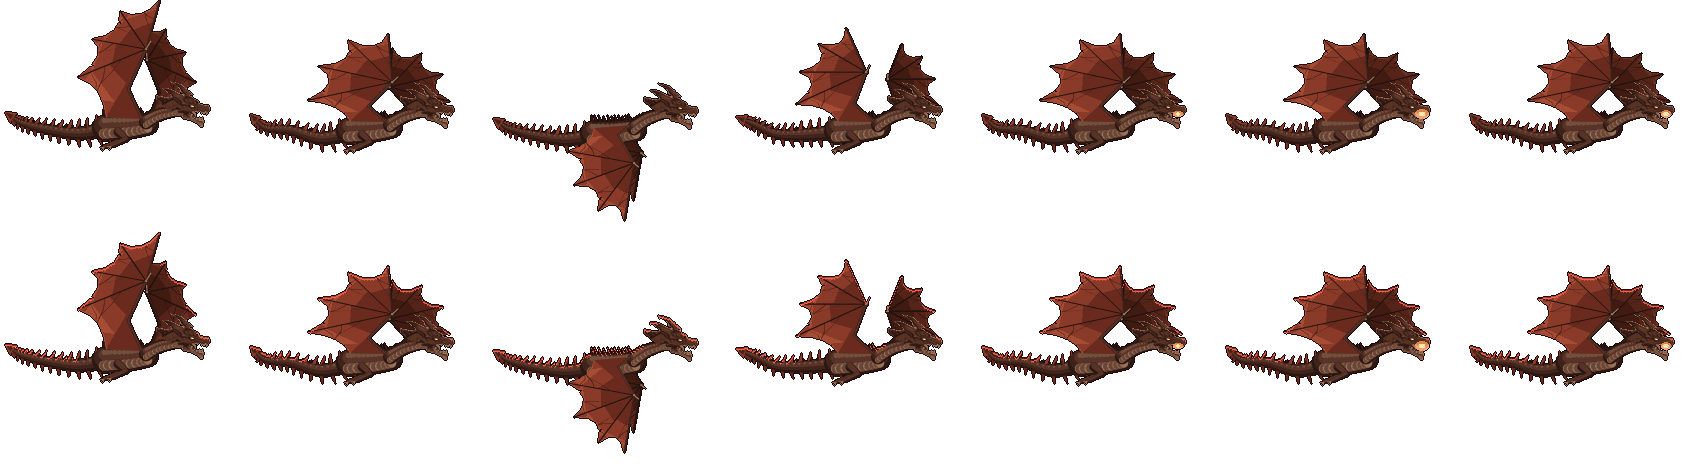
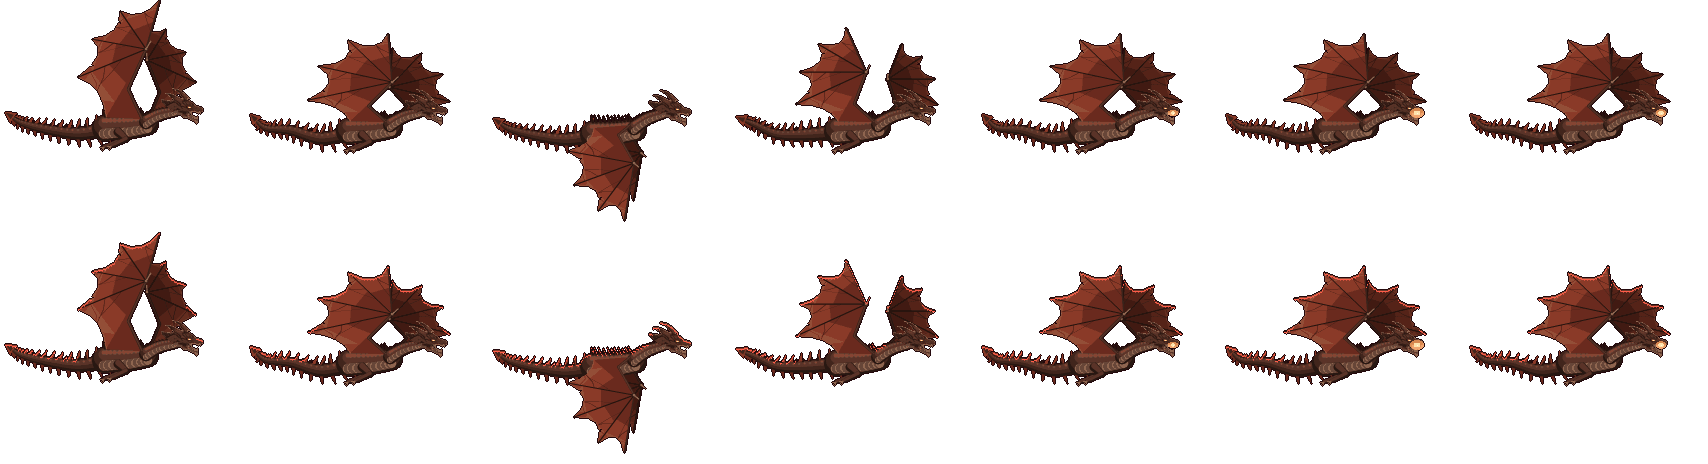
와이번 머리 그림 배율을 0.54에서 0.42로 줄인다
Claude-Session: https://claude.ai/code/session_01Q8g6pWdFRXf9kPebAnvFCB

diff --git a/src/game/wyvernPxData.js b/src/game/wyvernPxData.js
@@ -7,8 +7,8 @@ export const WYVERN_PX_SRC = "/assets/game/rpg/effects/hidden-jobs/wyvern/px/";
 export const WYVERN_PX = {
   wy_claw: { w: 112, h: 96, cols: 6, n: 6, cx: 10, cy: 48, r: 88 },   // 용조격 — 굵은 발톱 참격 세 줄(11월 18일 다시 그림, 기준점 = 손, 그림 속 반지름 r)
   wy_hit: { w: 64, h: 64, cols: 8, n: 8, cx: 32, cy: 32 },   // 타격 — 흰 섬광 · 가시 여덟 · 불꽃 고리 · 불씨(11월 18일)
-  wy_wyvern: { w: 244, h: 232, cols: 7, n: 7, cx: 140, cy: 110, rows: 2, mouth: [62, 4] },   // 와이번 옆모습(오른쪽, 1배) — 11월 18일 사용자 자세 참고 그림대로 0 날개 위 · 1 내리침 · 2 날개 아래 · 3 올림 · 4~6 불 뿜기(design/effects/wyvern/pose.py). 줄 0 그대로 · 1 연마 75 붉은 선
-  wy_sit: { w: 252, h: 84, cols: 3, n: 3, cx: 146, cy: 80, rows: 2, mouth: [85, -32] },   // 지상 대기 와이번(1배, 기준점 = 몸 아래 땅) — 웅크려 목을 앞으로 길게 뻗고 접은 날개 손목으로 땅을 짚은 자세(11월 18일 사용자 기획) · 0 · 1 숨쉬기 · 2 앉아서 불 뿜기
+  wy_wyvern: { w: 244, h: 232, cols: 7, n: 7, cx: 140, cy: 110, rows: 2, mouth: [57, 3] },   // 와이번 옆모습(오른쪽, 1배) — 11월 18일 사용자 자세 참고 그림대로 0 날개 위 · 1 내리침 · 2 날개 아래 · 3 올림 · 4~6 불 뿜기(design/effects/wyvern/pose.py). 줄 0 그대로 · 1 연마 75 붉은 선
+  wy_sit: { w: 252, h: 84, cols: 3, n: 3, cx: 146, cy: 80, rows: 2, mouth: [80, -33] },   // 지상 대기 와이번(1배, 기준점 = 몸 아래 땅) — 웅크려 목을 앞으로 길게 뻗고 접은 날개 손목으로 땅을 짚은 자세(11월 18일 사용자 기획) · 0 · 1 숨쉬기 · 2 앉아서 불 뿜기
   wy_shade: { w: 122, h: 24, cols: 4, n: 4, cx: 61, cy: 12, loop: 1 },   // 땅에 비친 와이번 그림자 — 날갯짓 4칸
   wy_ball: { w: 20, h: 20, cols: 4, n: 4, cx: 12, cy: 10, loop: 1 },   // 와이번 화염탄(오른쪽으로 난다)
   wy_sigil: { w: 96, h: 56, cols: 8, n: 8, cx: 48, cy: 28 },   // 소환 문양 — 0~3 나타남 · 4~7 반복

diff --git a/src/game/wyvernData.js b/src/game/wyvernData.js
@@ -47,10 +47,10 @@ export const WY_CLAW = { name: "용조격", gap: 0.55, reach: 160, arc: (95 / 2)
    hz 나는 높이(화면 px) · spd 따라가는 빠르기 · v 화염탄 빠르기 · back 주인 뒤 거리 · side 옆 거리 — 정한 값 */
 export const WY_CONTRACT = { name: "비룡의 계약", cost: 30, cd: 15, dur: 30, dur50: 40, gap: 1.5, mul: 3.0, mul25: 4.0, seek: 500, sp25: 25, sp50: 50,
   back: [60, 120], far: 650, appear: 0.45, hz: 74, spd: 340, v: 620,
-  mouth: [62, 4],
+  mouth: [57, 3],
   // 앉기(11월 18일 사용자 "움직이지 않을 때는 앉아있는 모습") — 빠르기 speed(px/초) 아래로 wait 초 머물면 time 초에 걸쳐 내려앉고, 움직이면 같은 빠르기로 날아오른다.
   // sitMouth — 앉은 그림의 입 자리(땅 기준 화면 px, wy_sit 시트와 같다). 정한 값
-  sit: { speed: 20, wait: 0.6, time: 0.45, mouth: [85, -32] } };   // 화염탄이 나가는 입 자리(와이번 자리에서 화면 px) — wy_wyvern · wy_sit 시트의 mouth 와 같다(11월 18일 자세 그림)
+  sit: { speed: 20, wait: 0.6, time: 0.45, mouth: [80, -33] } };   // 화염탄이 나가는 입 자리(와이번 자리에서 화면 px) — wy_wyvern · wy_sit 시트의 mouth 와 같다(11월 18일 자세 그림)
 
 /* 용염 포효(직업 레벨 15) — 용혈 15 · 대기 9초 · 앞 350 · 부채꼴 90° · 0.15~0.90초 화염 박동 5번 ×3.0(합 ×15) · 맞히면 용혈 +10(시전당 한 번).
    1부 요약 — 포탈에서 용의 머리가 나와 앞으로 불을 뿜는다. 역린 해방 중 폭 +50%.

diff --git a/design/effects/wyvern/head_prep.py b/design/effects/wyvern/head_prep.py
@@ -11,7 +11,7 @@ SRC = os.path.join(HERE, "..", "..", "wyvern-job", "ref", "head-user.png")
 
 CROP = (24, 18, 85, 128)      # 원본에서 머리 · 목 앞쪽(왼쪽 위 → 오른쪽 아래)
 ROT = 50                      # 반시계로 돌려 아래를 보던 주둥이를 오른쪽 조금 아래로
-SCALE = 0.54                  # 돌린 뒤 줄이는 배율 — 머리 길이 40px 안팎(1배 시트), 목 굵기와 맞춤
+SCALE = 0.42                  # 돌린 뒤 줄이는 배율 — 11월 18일 사용자 "머리 크기 줄여줘"(0.54 → 0.42)
 # 원본(자르기 전) 좌표의 기준점 — 돌리고 줄인 뒤 자리를 계산한다
 P_NECK = (34, 70)             # 목이 붙는 자리(머리 뒤 아래)
 P_MOUTH = (60, 108)           # 벌린 입 안쪽(불이 나오는 곳)
